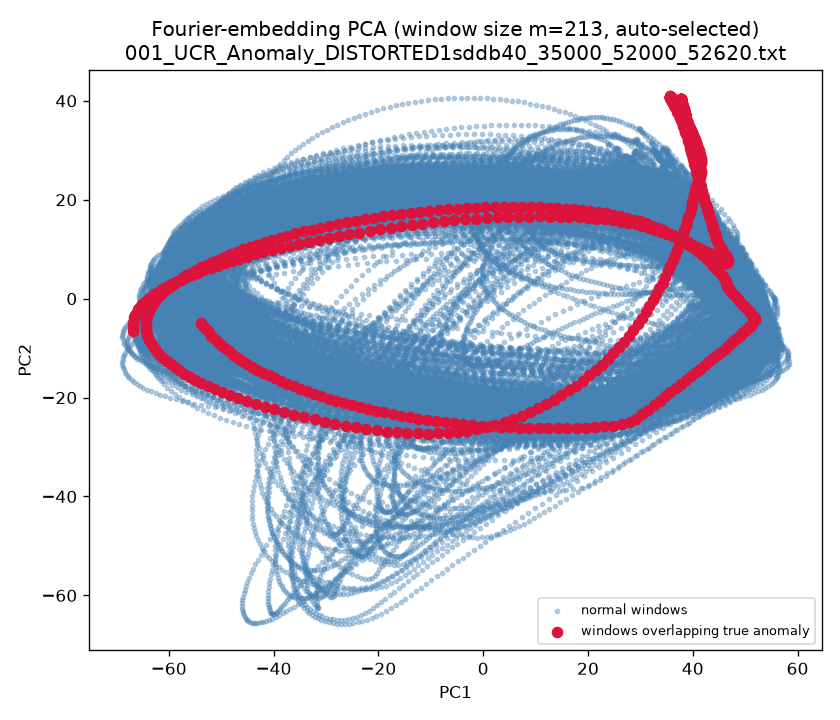
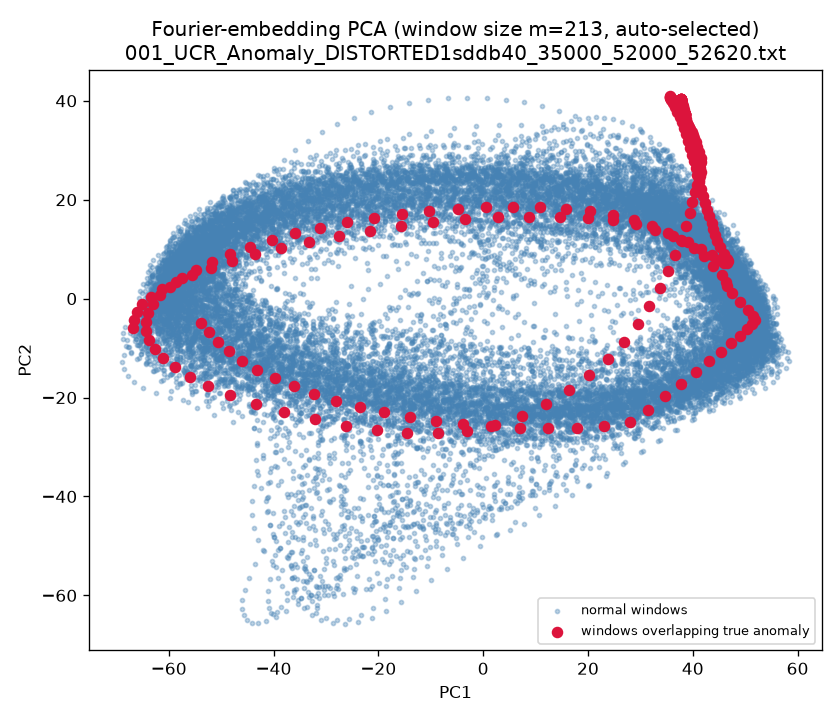
Fix memory blow-up risk in Fourier embedding and integrate as 5th detector
embed_all_windows() previously built a dense (n-m+1, m) array via
arithmetic on the full sliding_window_view - fine for short series, but a
900,000-point file with an auto-selected window of ~1,525 would require
~11GB+ per intermediate array (mean/std/znorm/tapered/spectrum), risking
an OOM crash. Fixed by subsampling window START POSITIONS with a stride
before any arithmetic runs (slicing a numpy view with a step is itself
still a zero-copy view), bounding memory/compute to max_windows regardless
of series length or window size. Verified on the largest file in the
archive (900,000 points): 6.6s, no memory issue, same detection behavior
on files below the subsampling threshold.

Integrates the Fourier-embedding detector into evaluate_ucr.py as a fifth
method alongside the three point-based detectors and shape discord, for a
unified full-archive comparison (previously only piloted on 3 files).

Changed region(s): [[0.1238, 0.1222, 0.9595, 0.8861]]

diff --git a/time_series_anomaly_detection/fourier_embedding_detection.py b/time_series_anomaly_detection/fourier_embedding_detection.py
@@ -70,16 +70,31 @@ def estimate_period_via_fourier(series, min_period: int = 8, max_period_frac: fl
 # ---------------------------------------------------------------------------
 # 2. Fourier embedding of every window, fully vectorized
 # ---------------------------------------------------------------------------
-def embed_all_windows(series, m: int, n_coeffs: int = 12):
+def embed_all_windows(series, m: int, n_coeffs: int = 12, max_windows: int = 30000):
     """
-    Returns (embeddings, flat_mask): embeddings[i] is the Fourier-magnitude
-    embedding of series[i:i+m] (z-normalized and Hann-tapered first), for
-    every i in one batched FFT call. flat_mask[i] marks windows with ~zero
-    variance (undefined shape once z-normalized) so callers can exclude
-    them from scoring.
+    Returns (positions, embeddings, flat_mask): embeddings[i] is the
+    Fourier-magnitude embedding of series[positions[i]:positions[i]+m]
+    (z-normalized and Hann-tapered first), computed via one batched FFT
+    call. flat_mask[i] marks windows with ~zero variance (undefined shape
+    once z-normalized) so callers can exclude them from scoring.
+
+    `sliding_window_view` itself is a zero-copy view, so building it over
+    the WHOLE series is free regardless of length; but a long series with
+    a large auto-selected `m` (e.g. a 900,000-point series with m~1500)
+    would still materialize a many-GB dense array the moment any
+    arithmetic (mean/std/FFT) runs on it. To keep memory and runtime
+    bounded regardless of series length, positions are subsampled with a
+    stride BEFORE any arithmetic happens (slicing a view with a step is
+    itself still a view - only the final `max_windows`-sized subset ever
+    gets materialized).
     """
     values = np.asarray(series, dtype=float)
-    windows = np.lib.stride_tricks.sliding_window_view(values, m)  # (n-m+1, m)
+    all_windows = np.lib.stride_tricks.sliding_window_view(values, m)  # (n-m+1, m), zero-copy view
+    n_total = all_windows.shape[0]
+
+    stride = max(1, int(np.ceil(n_total / max_windows)))
+    windows = all_windows[::stride]  # still a view - no copy yet
+    positions = np.arange(0, n_total, stride)
 
     mean = windows.mean(axis=1, keepdims=True)
     std = windows.std(axis=1, keepdims=True)
@@ -92,7 +107,7 @@ def embed_all_windows(series, m: int, n_coeffs: int = 12):
 
     n_coeffs = min(n_coeffs, spectrum.shape[1] - 1)
     embeddings = spectrum[:, 1:n_coeffs + 1]  # drop the DC bin (z-norm already removed the mean)
-    return embeddings, flat_mask
+    return positions, embeddings, flat_mask
 
 
 # ---------------------------------------------------------------------------
@@ -129,16 +144,15 @@ def plot_embedding_diff(positions, embeddings_2d, m, anomaly_start, anomaly_end,
 #    embedding to the "normal" reference distribution (fit on the
 #    train-only region, never on test-region/anomaly data - no leakage).
 # ---------------------------------------------------------------------------
-def embedding_distance_detector(series, m: int, train_size: int, n_coeffs: int = 12):
+def embedding_distance_detector(series, m: int, train_size: int, n_coeffs: int = 12, max_windows: int = 30000):
     """
-    Returns (positions, scores): for every window position, its
-    standardized Euclidean distance to the mean Fourier embedding of the
-    TRAIN region only (archive convention: train region is anomaly-free).
-    Large distance = shape unlike anything seen in the reference/normal
-    period.
+    Returns (positions, scores): for every (possibly subsampled) window
+    position, its standardized Euclidean distance to the mean Fourier
+    embedding of the TRAIN region only (archive convention: train region is
+    anomaly-free). Large distance = shape unlike anything seen in the
+    reference/normal period.
     """
-    embeddings, flat_mask = embed_all_windows(series, m, n_coeffs)
-    positions = np.arange(len(embeddings))
+    positions, embeddings, flat_mask = embed_all_windows(series, m, n_coeffs, max_windows=max_windows)
 
     train_end = max(1, train_size - m + 1)
     train_mask = (positions < train_end) & (~flat_mask)
@@ -189,7 +203,7 @@ def run_on_three_datasets(data_dir: str):
         print(f"  true anomaly=[{anomaly_start},{anomaly_end}], top-1 guess at position {top1_pos} "
               f"(covers [{top1_pos},{top1_pos + m - 1}]) -> {'HIT' if hit else 'MISS'}")
 
-        embeddings, flat_mask = embed_all_windows(series, m)
+        _, embeddings, flat_mask = embed_all_windows(series, m)
         embeddings_2d = pca_2d(embeddings)
         plot_path = os.path.join(_HERE, f"fourier_embedding_{filename.split('_UCR_')[0]}.png")
         plot_embedding_diff(positions, embeddings_2d, m, anomaly_start, anomaly_end, plot_path,

diff --git a/time_series_anomaly_detection/evaluate_ucr.py b/time_series_anomaly_detection/evaluate_ucr.py
@@ -35,6 +35,7 @@ import pandas as pd
 
 from anomaly_detection import rolling_zscore_detector, rolling_iqr_detector, trend_residual_detector
 from shape_discord_detection import shape_discord_detector
+from fourier_embedding_detection import estimate_period_via_fourier, embedding_distance_detector
 
 _HERE = os.path.dirname(os.path.abspath(__file__))
 FILENAME_RE = re.compile(r"^(\d+)_UCR_Anomaly_(.+)_(\d+)_(\d+)_(\d+)\.txt$")
@@ -47,6 +48,7 @@ DETECTORS = {
 
 SHAPE_M = 100
 SHAPE_MAX_QUERIES = 1000
+FOURIER_MAX_WINDOWS = 30000
 
 
 def parse_filename(filename: str) -> dict:
@@ -64,7 +66,7 @@ def load_series(path: str) -> pd.Series:
     return pd.Series(np.loadtxt(path))
 
 
-def evaluate_file(path: str, filename: str, include_shape: bool = True) -> dict:
+def evaluate_file(path: str, filename: str, include_shape: bool = True, include_fourier: bool = True) -> dict:
     meta = parse_filename(filename)
     series = load_series(path)
     test_index = series.index[meta["train_size"]:]
@@ -100,6 +102,22 @@ def evaluate_file(path: str, filename: str, include_shape: bool = True) -> dict:
         else:
             row["shape_discord_hit"] = False
             row["shape_discord_top1_index"] = None
+
+    if include_fourier:
+        m = estimate_period_via_fourier(series)
+        positions, scores = embedding_distance_detector(
+            series, m, train_size=meta["train_size"], max_windows=FOURIER_MAX_WINDOWS
+        )
+        test_mask = positions >= meta["train_size"]
+        if test_mask.any() and np.nanmax(scores[test_mask]) > 0:
+            top1_pos = int(positions[test_mask][np.argmax(scores[test_mask])])
+            hit = meta["anomaly_start"] <= top1_pos + m - 1 and top1_pos <= meta["anomaly_end"]
+            row["fourier_embedding_hit"] = bool(hit)
+            row["fourier_embedding_top1_index"] = top1_pos
+        else:
+            row["fourier_embedding_hit"] = False
+            row["fourier_embedding_top1_index"] = None
+        row["fourier_embedding_m"] = m
 
     return row
 
@@ -155,7 +173,7 @@ def print_summary(df: pd.DataFrame) -> None:
     n_total = len(df)
     n_errors = df["error"].notna().sum() if "error" in df.columns else 0
     print(f"Files evaluated: {n_total} ({n_errors} failed to parse/load)")
-    for det_name in list(DETECTORS) + ["shape_discord"]:
+    for det_name in list(DETECTORS) + ["shape_discord", "fourier_embedding"]:
         col = f"{det_name}_hit"
         if col in df.columns:
             valid = df[col].notna()
